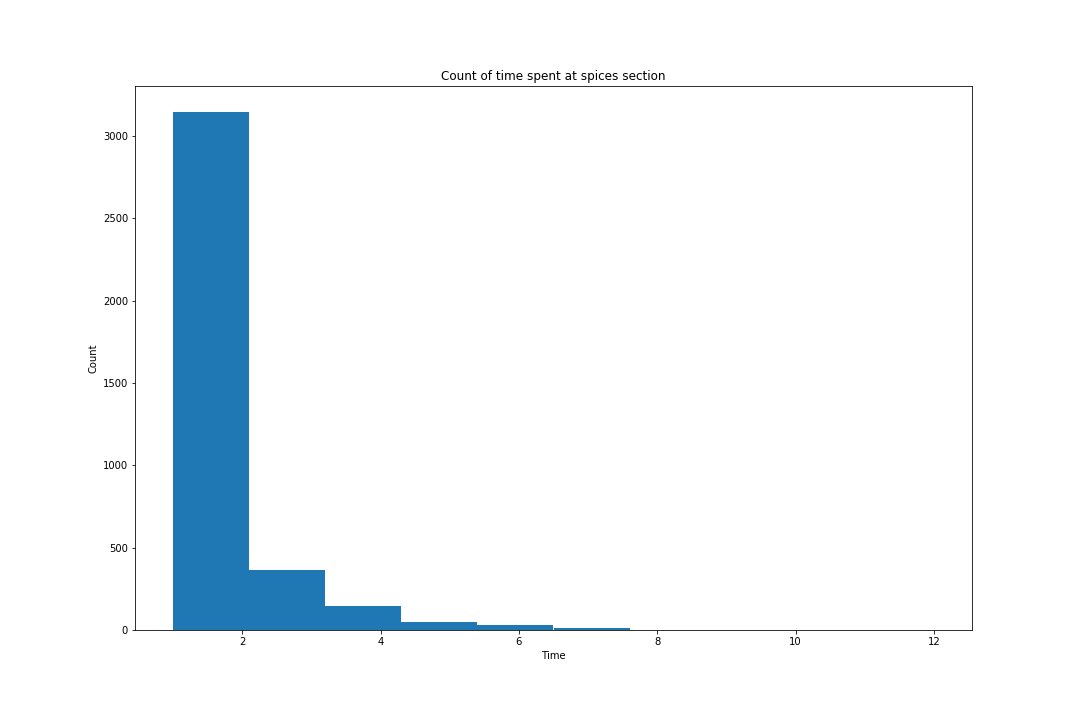
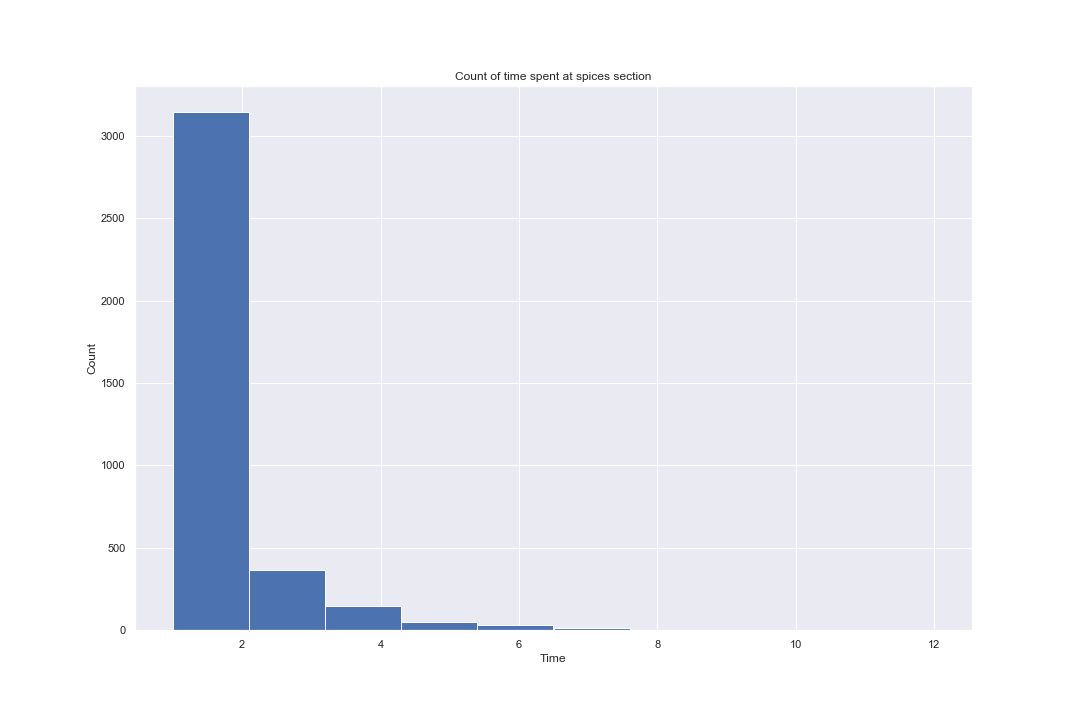
edited doc strings

diff --git a/supermarket_simulation.py b/supermarket_simulation.py
@@ -10,9 +10,18 @@ import pickle
 import my_constants
 
 from matplotlib import pyplot as plt
-from utils import save_obj, load_obj, clear, to_dummy_date, add_minute, state_index_to_vec, state_name_to_index
+from utils import (
+    save_obj,
+    load_obj,
+    clear,
+    to_dummy_date,
+    add_minute,
+    state_index_to_vec,
+    state_name_to_index,
+)
 from customer import Customer, customer_history_processing
 from visualize_simulation import Visualize_Simulation
+
 # %% Constants
 
 STATES = my_constants.STATES
@@ -22,7 +31,6 @@ PLOT = False
 VISUALIZE = True
 
 # %% Functions
-
 def generate_first_location_index():
     """
     Generates the first location index using the first_location_prob probabilities 
@@ -84,7 +92,7 @@ if __name__ == "__main__":
     # Plotting simulated customer behaviour
     # --------------------------------------------------------------------------------
     if PLOT:
-        \%% Plot the no. of customer at each section
+        # Plot the no. of customer at each section
         plt.figure(figsize=(15, 10))
         plt.plot(
             df_customer_history_filled["time"]

diff --git a/supermarket_analysis_processing.py b/supermarket_analysis_processing.py
@@ -9,6 +9,8 @@ import numpy as np
 import networkx as nx
 import datetime
 import pickle
+import my_constants
+import seaborn as sns
 from matplotlib import pyplot as plt
 from collections import Counter
 from utils import save_obj, load_obj
@@ -16,25 +18,10 @@ from utils import save_obj, load_obj
 # %%
 # PLOT = True if user wants to output and save the plots
 PLOT = True
-DAY_DICT = {
-    0: "Monday",
-    1: "Tuesday",
-    2: "Wednesday",
-    3: "Thursday",
-    4: "Friday",
-    5: "Saturday",
-    6: "Sunday",
-}
-STATES = ["checkout", "dairy", "drinks", "fruit", "spices"]
-
-# creates a per minute index for the time
-TIME_INDEX = pd.DataFrame(
-    columns=["hour"],
-    index=pd.date_range("2019-09-02 07:00:00", "2019-09-02 22:00:00", freq="1min"),
-)
-TIME_INDEX["hour"] = TIME_INDEX.index.time
-TIME_INDEX.reset_index(drop=True, inplace=True)
-# for saving and reading python objects
+DAY_DICT = my_constants.DAY_DICT
+STATES = my_constants.STATES
+TIME_INDEX = my_constants.TIME_INDEX
+sns.set()
 
 def _get_markov_edges(Q):
     """gets markov edge for plotting networkx markov chain"""

diff --git a/customer.py b/customer.py
@@ -1,15 +1,28 @@
+""" Customer
+This script contains the class customer and functions for 
+generating shopping behaviour.
+"""
 import numpy as np
 import pandas as pd
 import cv2
 import my_constants
-import datetime 
+import datetime
 
 from findpath import FindPath
-from utils import save_obj, load_obj, clear, to_dummy_date, add_minute, state_index_to_vec, state_name_to_index
+from utils import (
+    save_obj,
+    load_obj,
+    clear,
+    to_dummy_date,
+    add_minute,
+    state_index_to_vec,
+    state_name_to_index,
+)
 
 STATES = my_constants.STATES
 TIME_INDEX = my_constants.TIME_INDEX
 location_coordinate = pd.read_csv("out/location_coordinate.csv")
+
 
 class Customer:
     """

diff --git a/utils.py b/utils.py
@@ -1,3 +1,6 @@
+""" utils
+This script contains utilities.
+"""
 import pickle
 import datetime
 import my_constants
@@ -5,6 +8,7 @@ from os import system, name
 
 STATES = my_constants.STATES
 TIME_INDEX = my_constants.TIME_INDEX
+
 
 def clear():
     """ clears the screen"""
@@ -27,7 +31,8 @@ def load_obj(name):
     """load object from pickle file """
     with open("out/" + name + ".pkl", "rb") as f:
         return pickle.load(f)
-    
+
+
 def to_dummy_date(time_in):
     """Returns a dummy date in datetime.datetime for arithmetic"""
     return datetime.datetime(2000, 1, 1, time_in.hour, time_in.minute, 0)

diff --git a/my_constants.py b/my_constants.py
@@ -1,3 +1,6 @@
+""" my_constants
+This script contains the constants for the simulations.
+"""
 import pandas as pd
 
 STATES = ["checkout", "dairy", "drinks", "fruit", "spices"]
@@ -8,3 +11,13 @@ TIME_INDEX = pd.DataFrame(
 )
 TIME_INDEX["hour"] = TIME_INDEX.index.time
 TIME_INDEX.reset_index(drop=True, inplace=True)
+
+DAY_DICT = {
+    0: "Monday",
+    1: "Tuesday",
+    2: "Wednesday",
+    3: "Thursday",
+    4: "Friday",
+    5: "Saturday",
+    6: "Sunday",
+}

diff --git a/findpath.py b/findpath.py
@@ -1,3 +1,7 @@
+""" findpath
+This script contains the class FindPath for finding the optimal path
+at the shop.
+"""
 import numpy as np
 from pathfinding.core.diagonal_movement import DiagonalMovement
 from pathfinding.core.grid import Grid

diff --git a/visualize_simulation.py b/visualize_simulation.py
@@ -2,6 +2,7 @@ import cv2
 import numpy as np
 from utils import add_minute
 
+
 class Visualize_Simulation:
     """
     Class of tools for visualizing the simulation.
